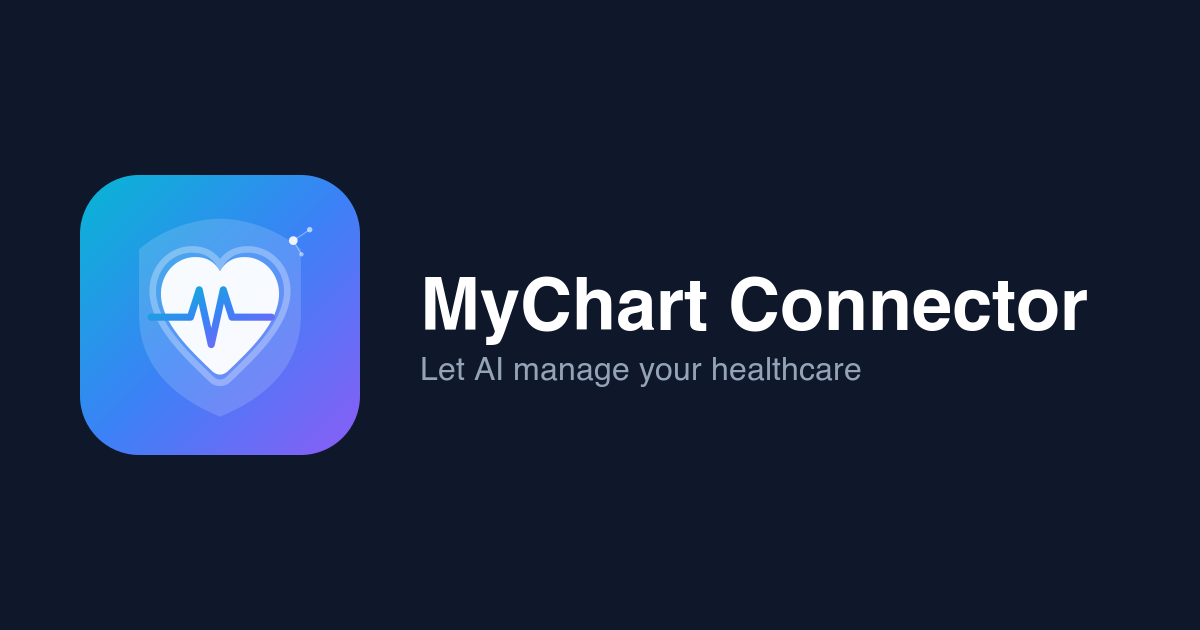
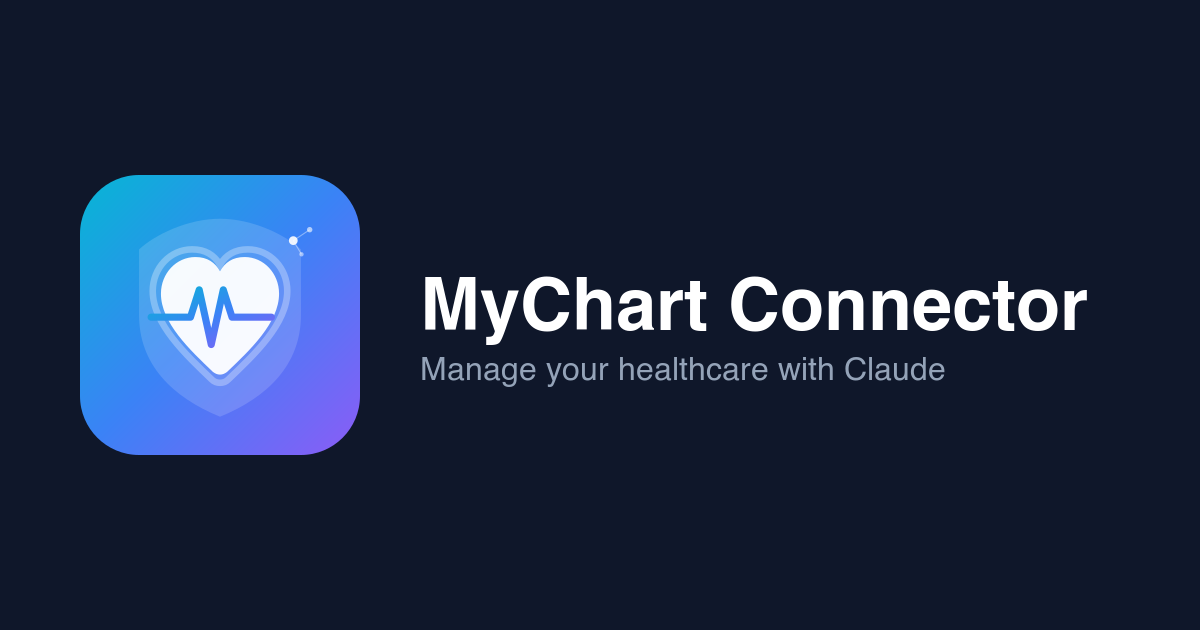
Update OG image tagline to "Manage your healthcare with Claude"

Changed region(s): [[0.3392, 0.573, 0.8017, 0.6032]]

diff --git a/web/src/app/layout.tsx b/web/src/app/layout.tsx
@@ -33,7 +33,7 @@ export const metadata: Metadata = {
         url: "/og-image.png",
         width: 1200,
         height: 630,
-        alt: "MyChart Connector — Let AI manage your healthcare",
+        alt: "MyChart Connector — Manage your healthcare with Claude",
       },
     ],
     type: "website",
